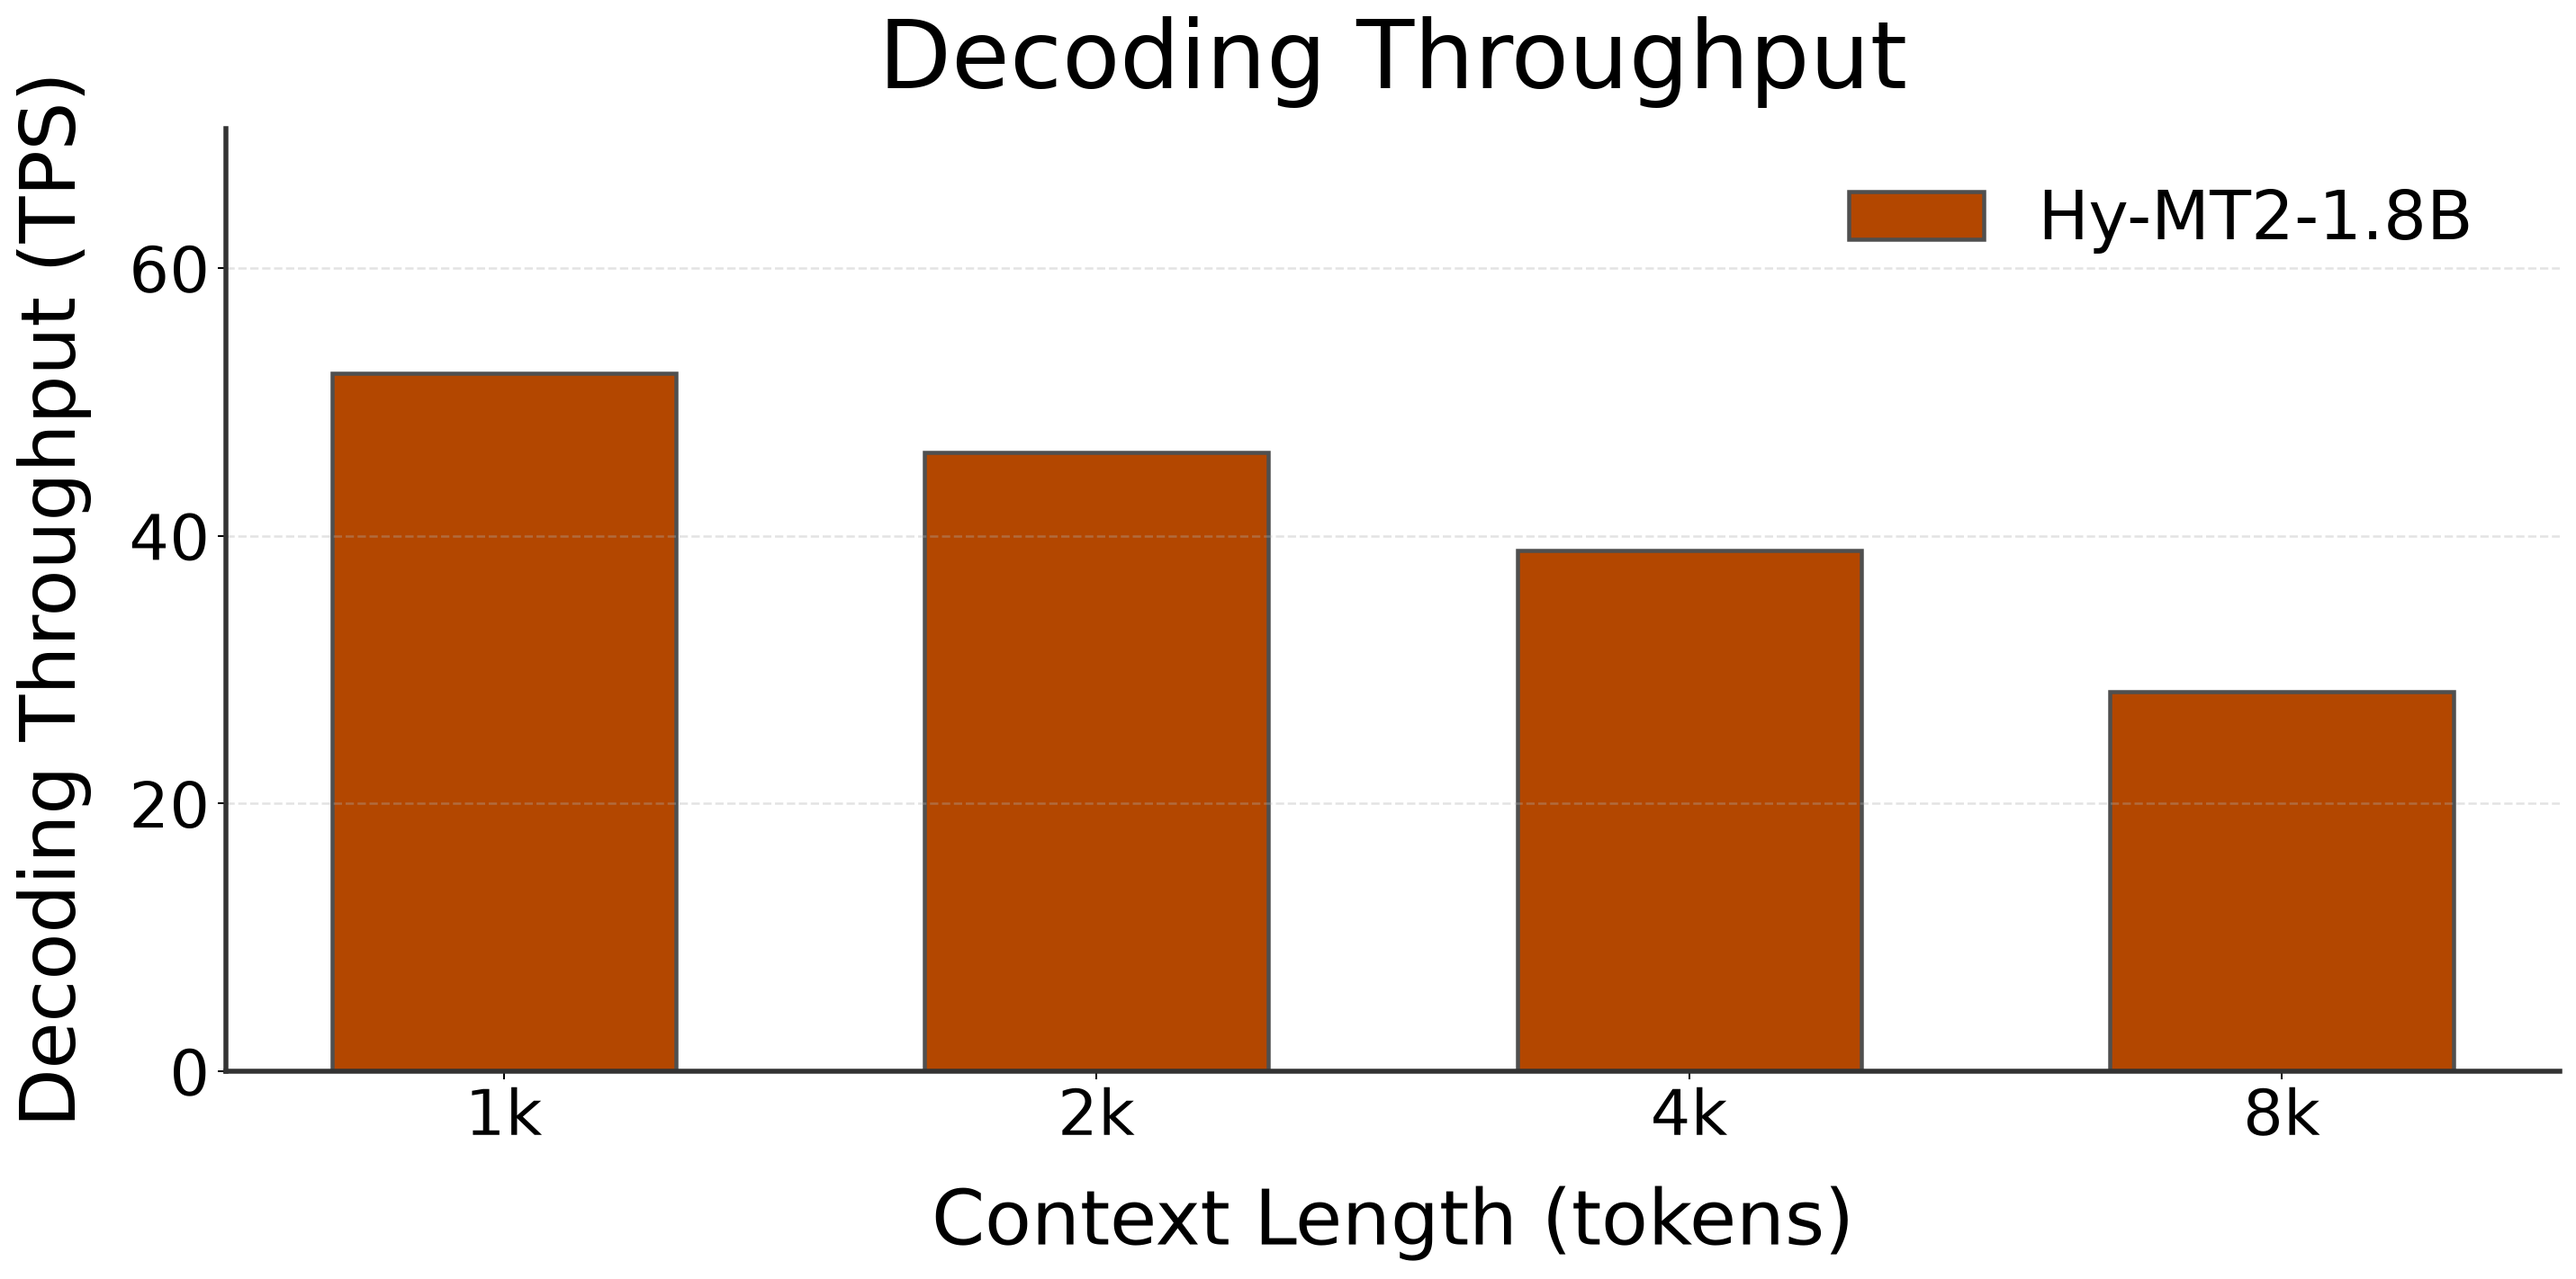
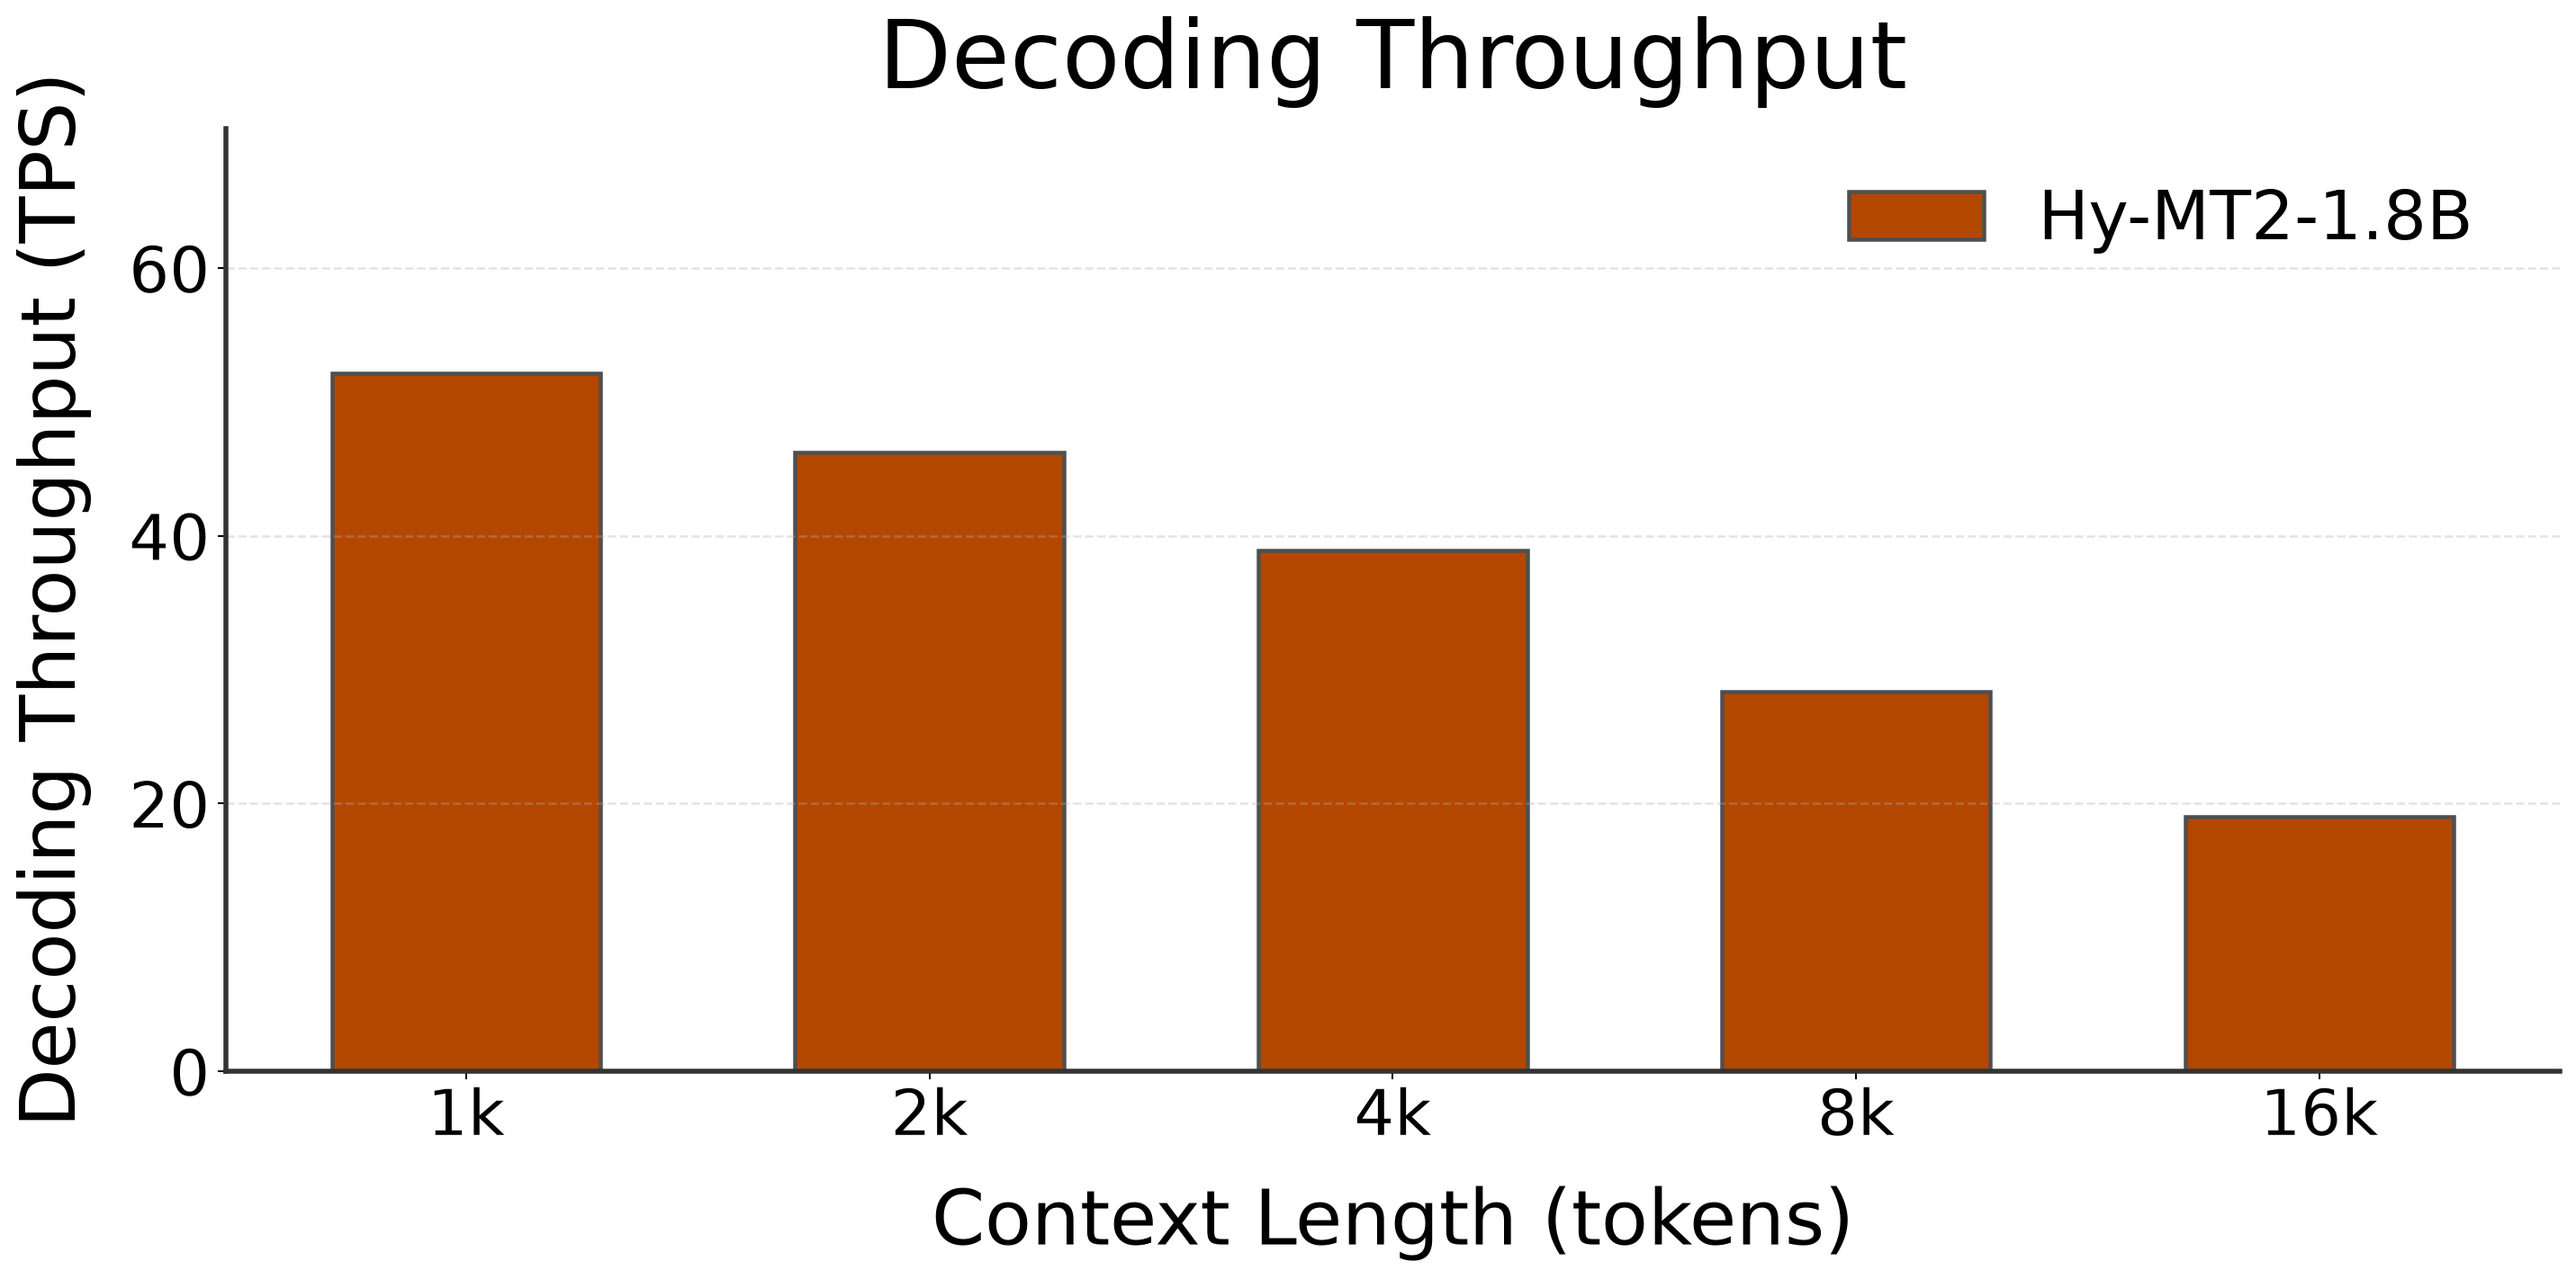
docs: update for v1.0.5

diff --git a/docs/docs/benchmarks/hy-mt2_results.md b/docs/docs/benchmarks/hy-mt2_results.md
@@ -13,7 +13,7 @@ This section reports the performance on NPU with FastFlowLM (FLM).
 > - Results are based on FastFlowLM v1.0.5.
 > - Under FLM's default NPU power mode (Performance)
 > - Newer versions may deliver improved performance.
-> - Hy-MT2 is a dedicated translation model tuned for short, single-turn requests, so it is benchmarked up to 8k max context length rather than the longer sweeps used for general chat models.
+> - Hy-MT2 is a dedicated translation model tuned for short, single-turn requests, so it is benchmarked up to 16k max context length rather than the longer sweeps used for general chat models.
 
 ---
 
@@ -30,16 +30,16 @@ AMD Ryzen™ AI 9 370 (Strix Point) with 32 GB DRAM; performance is comparable t
 
 ### 🚀 Decoding Speed (TPS, or Tokens per Second, starting @ different context lengths)
 
-| **Model**        | **HW**       | **1k** | **2k** | **4k** | **8k** |
-|------------------|--------------------|--------:|--------:|--------:|--------:|
-| **Hy-MT2-1.8B**  | NPU (FLM)    | 52.2 | 46.2 | 38.9 | 28.4 |
+| **Model**        | **HW**       | **1k** | **2k** | **4k** | **8k** | **16k** |
+|------------------|--------------------|--------:|--------:|--------:|--------:|--------:|
+| **Hy-MT2-1.8B**  | NPU (FLM)    | 52.2 | 46.2 | 38.9 | 28.4 | 19 |
 
 ---
 
 ### 🚀 Prefill Speed (TPS, or Tokens per Second, with different prompt lengths)
 
-| **Model**        | **HW**       | **1k** | **2k** | **4k** | **8k** |
-|------------------|--------------------|--------:|--------:|--------:|--------:|
-| **Hy-MT2-1.8B**  | NPU (FLM)    | 1,068 | 1,051 | 1,013 | 912 |
+| **Model**        | **HW**       | **1k** | **2k** | **4k** | **8k** | **16k** |
+|------------------|--------------------|--------:|--------:|--------:|--------:|--------:|
+| **Hy-MT2-1.8B**  | NPU (FLM)    | 1,068 | 1,051 | 1,013 | 912 | 723 |
 
 

diff --git a/docs/docs/models/hy-mt2.md b/docs/docs/models/hy-mt2.md
@@ -12,7 +12,7 @@ parent: Models
 - **Tool Calling Support:** No
 - **Base Model:** [tencent/Hy-MT2-1.8B](https://huggingface.co/tencent/Hy-MT2-1.8B)
 - **Quantization:** Q4_0
-- **Max Context Length:** 256k tokens
+- **Max Context Length:** 16k tokens
 - **Default Context Length:** 512 tokens ([change default](https://fastflowlm.com/docs/instructions/cli/#-change-default-context-length-max))
 - **[Set Context Length at Launch](https://fastflowlm.com/docs/instructions/cli/#-set-context-length-at-launch)**
 
